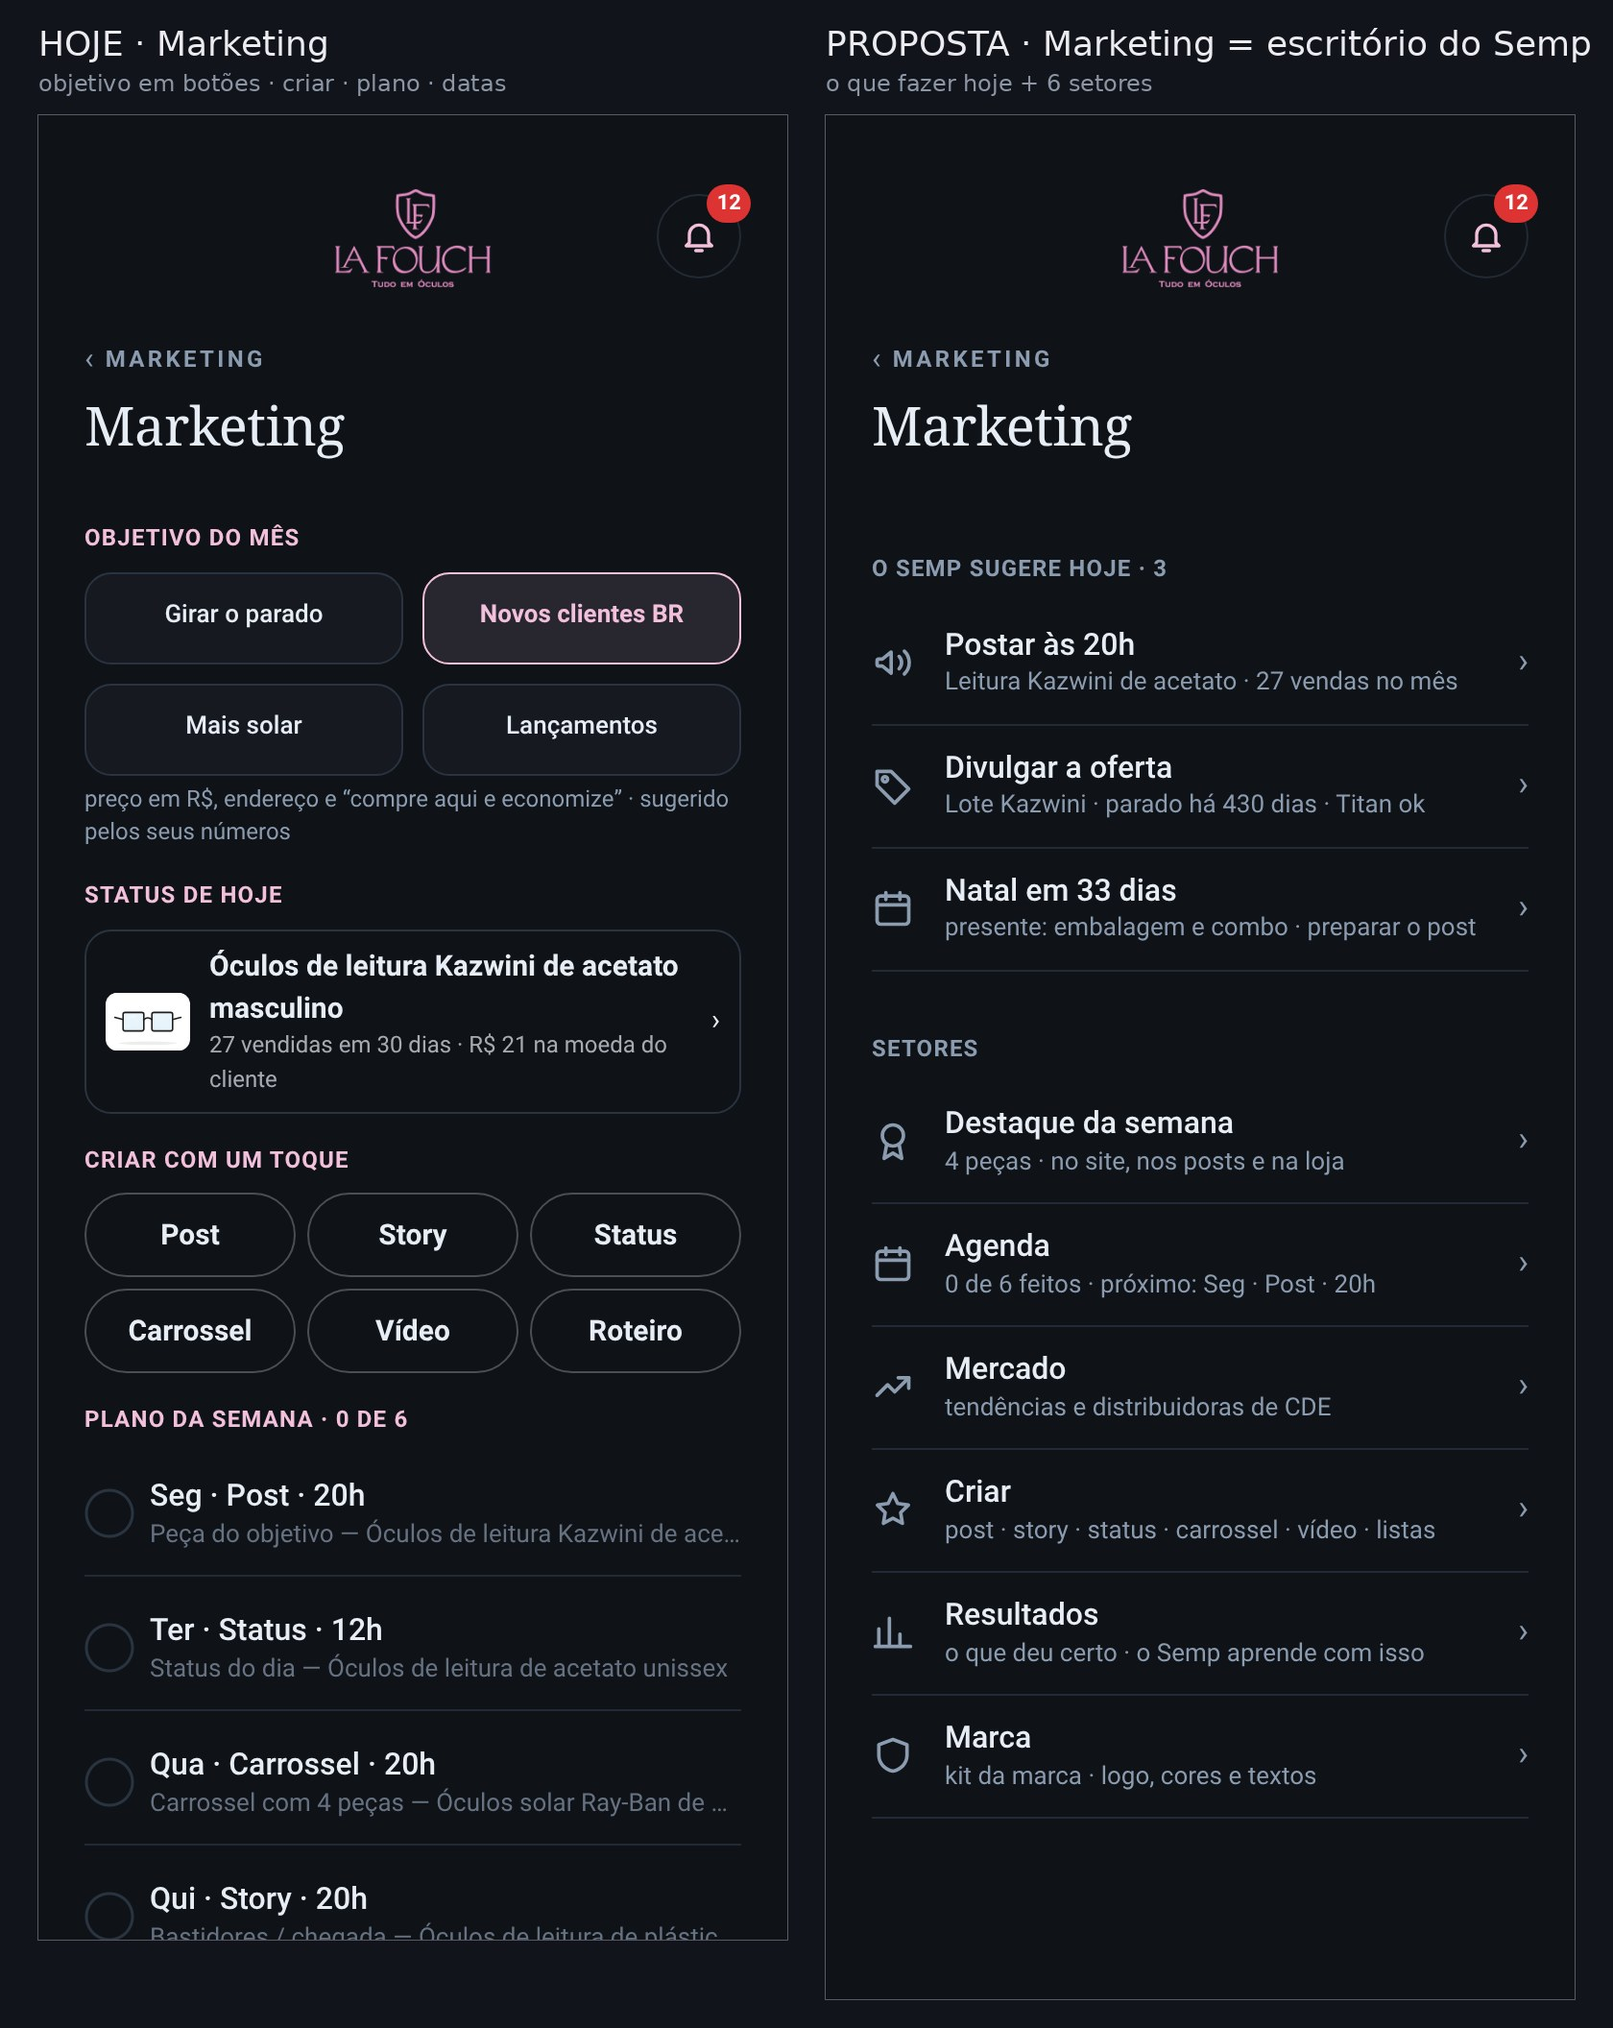
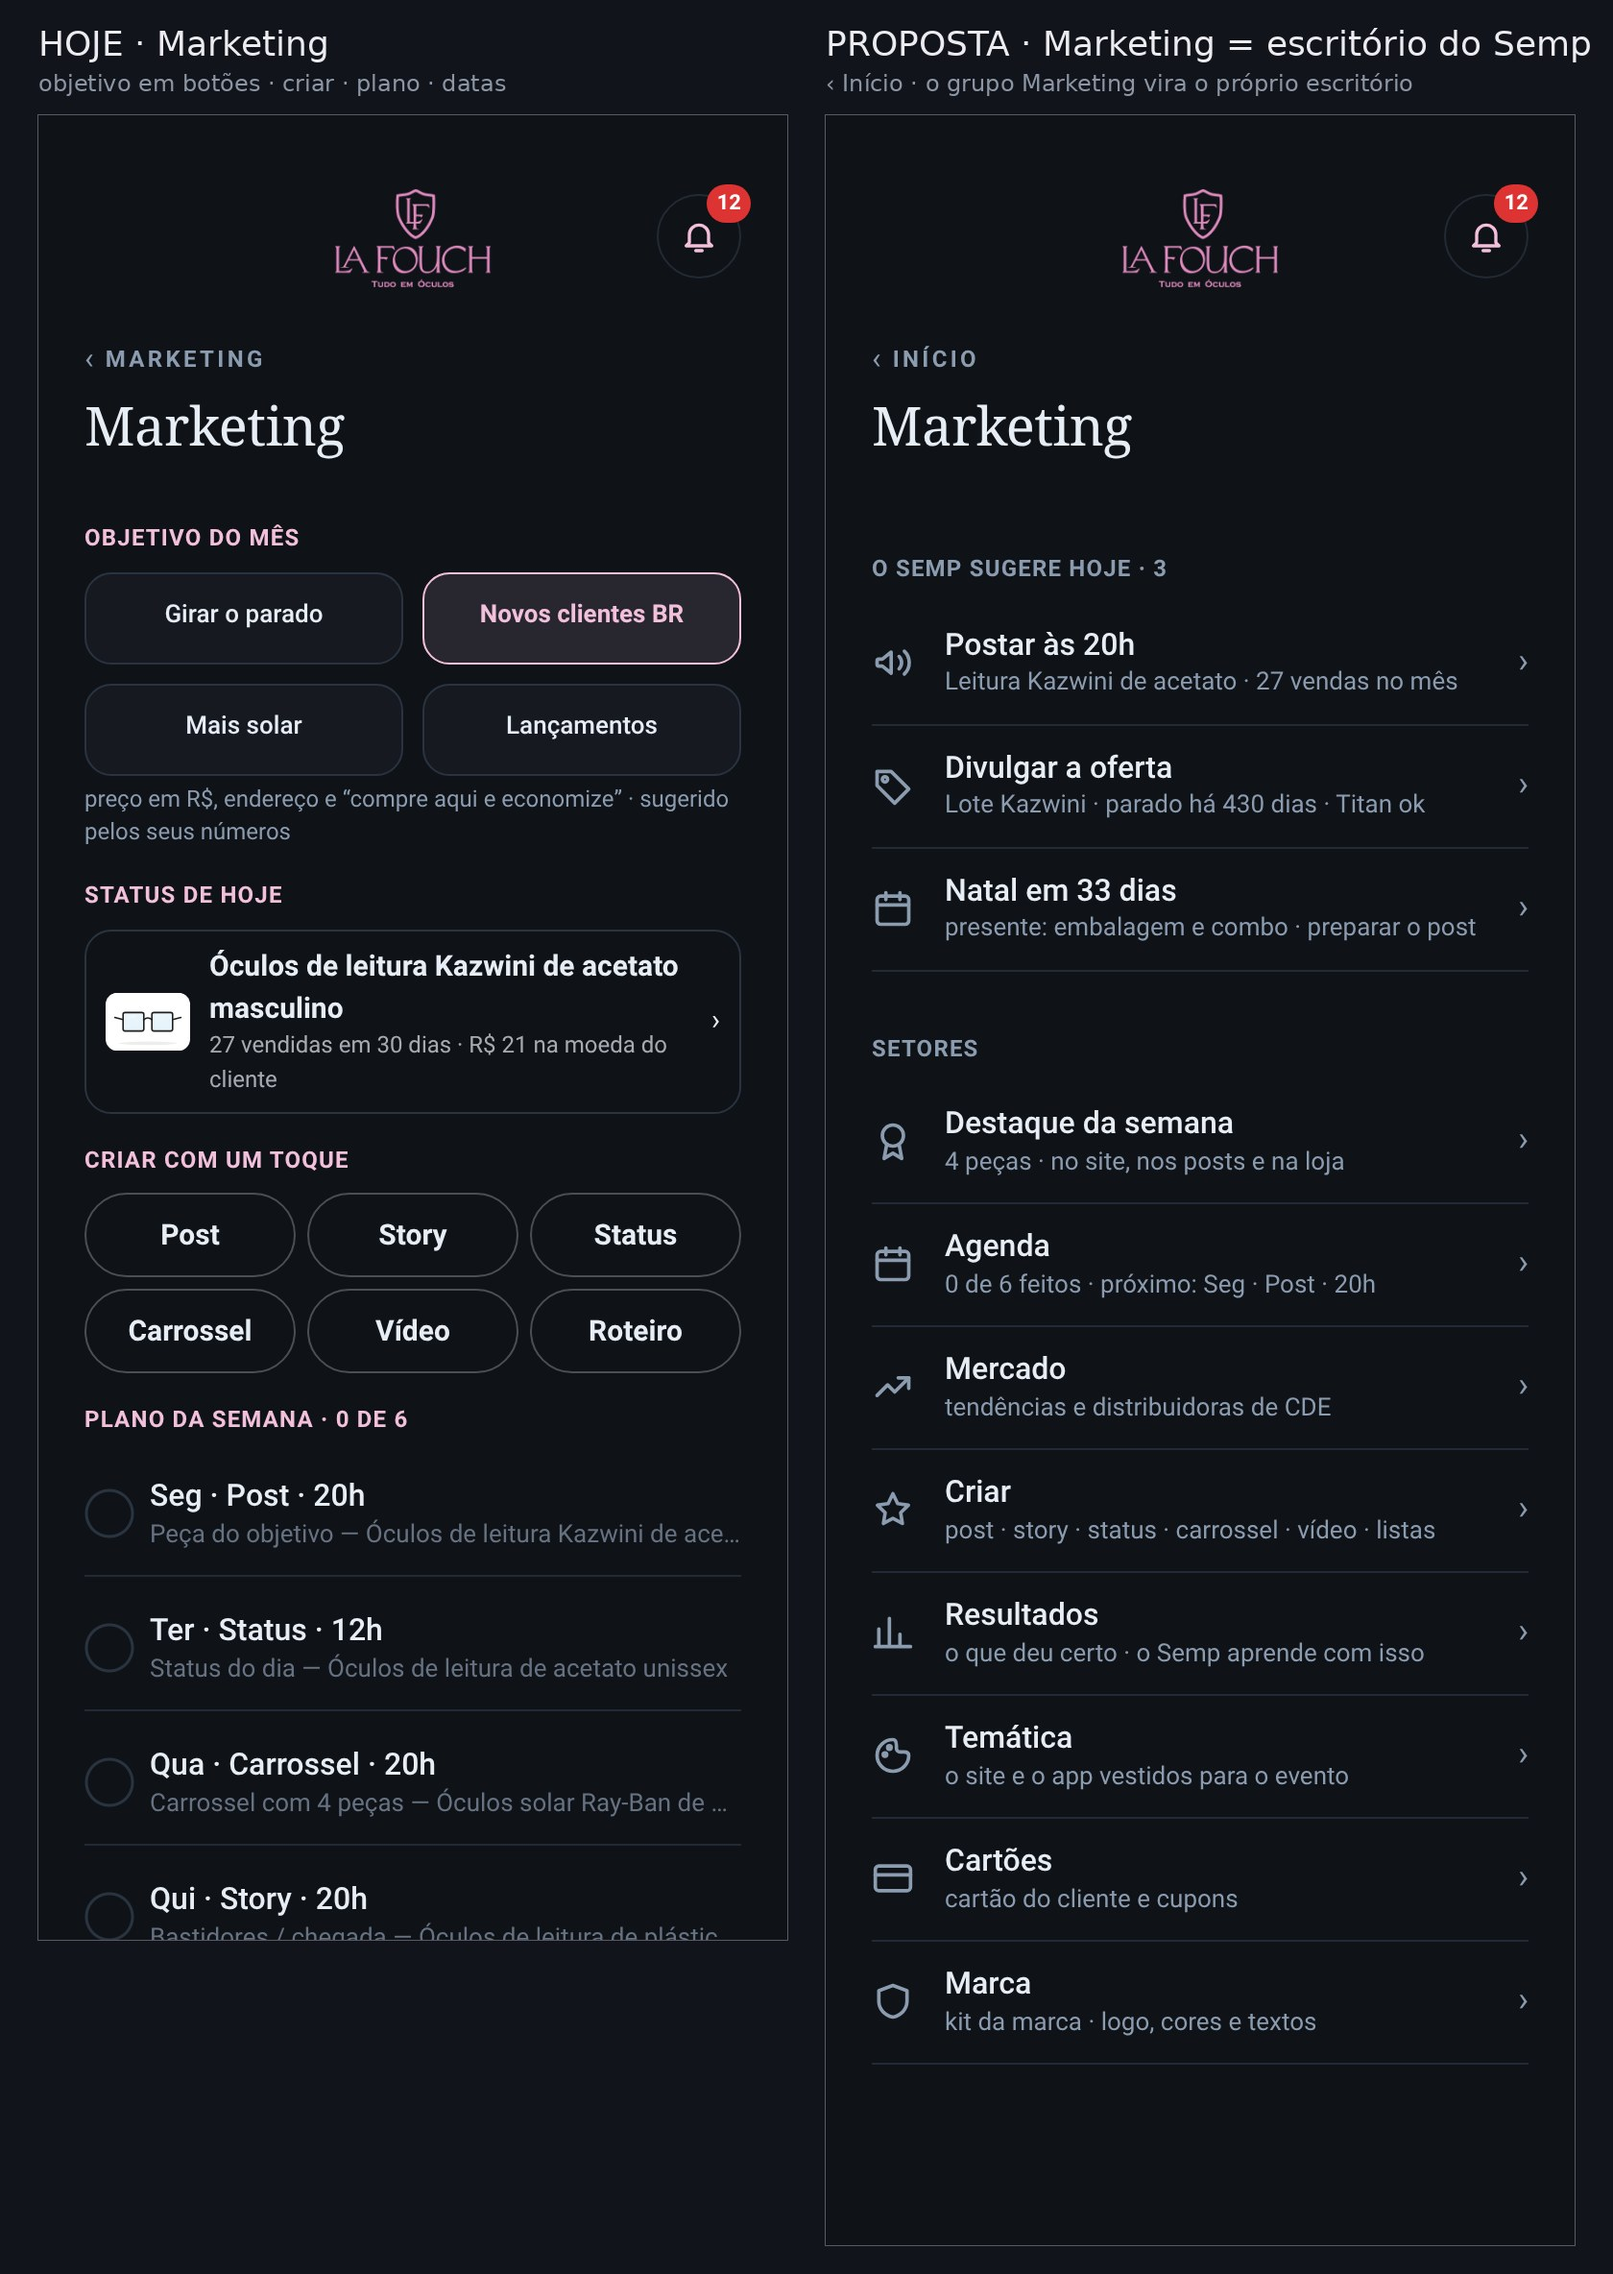
S435 esboço 70 v3: Início › Marketing direto; Temática e Cartões viram setores
Claude-Session: https://claude.ai/code/session_01Vj5GPRt4UBskC3w8v52h7G

diff --git a/work/s435/semp/esboco_70.py b/work/s435/semp/esboco_70.py
@@ -6,6 +6,9 @@
 # Dados REAIS do app de teste: foco 'Novos clientes BR' (o objetivo marcado hoje), Kazwini de acetato masculino 27 vendidas em 30 dias
 # (Status de hoje), plano 0 de 6 (Seg · Post · 20h), Lote Kazwini parado (o mesmo do 54), Natal em 33 dias (Datas que vêm aí).
 # v2: o foco vai para o subtítulo (o rótulo quebrava em 2 linhas, L4) e o rótulo fica igual ao do 54: 'O Semp sugere hoje · 3'.
+# v3 (dono 14:48 'a navegação tem marketing → marketing'): o GRUPO Marketing do Início (Marketing · Temática · Cartões · Analisador) deixa
+# de existir: Início › Marketing abre o escritório direto ('‹ Início', como o 54); Temática e Cartões viram setores; Analisador já foi para
+# Resultados (58c). Mesmo jeito do 52a (grupo Giro e preços saiu, Preços virou linha do Início).
 # 'Comprar a tendência' do 1c NÃO entra: o Mercado do Semp ainda não existe, não há tendência real (proibido produto de exemplo).
 import sys;sys.path.insert(0,'/home/claude/lafouch/work/s349');sys.path.insert(0,'/home/claude/lafouch/work/s430/comparador');import ap,compara
 from playwright.sync_api import sync_playwright
@@ -25,12 +28,15 @@ IC=dict(
  tend='<path d="M3 17l6-6 4 4 8-8"/><path d="M15 7h6v6"/>',
  cria='<path d="M12 3l2.7 5.6 6.1.9-4.4 4.3 1 6.1L12 17l-5.4 2.9 1-6.1L3.2 9.5l6.1-.9z"/>',
  res='<path d="M4 20V10M10 20V4M16 20v-7M22 20H2"/>',
+ tem='<path d="M12 3a9 9 0 1 0 9 9c0-1.5-1.2-2-2.5-2H16a2 2 0 0 1-2-2V6.5C14 4.6 13.4 3 12 3z"/><circle cx="7.5" cy="11.5" r="1"/><circle cx="10" cy="7.5" r="1"/>',
+ cart='<rect x="2" y="5" width="20" height="14" rx="2"/><path d="M2 10h20"/>',
  marca='<path d="M12 3l8 3v6c0 4.5-3.4 8-8 9-4.6-1-8-4.5-8-9V6z"/>')
 JS=r"""(I)=>{const v=document.getElementById('v-mkt');
 const L='display:flex;align-items:center;gap:16px;min-height:64px;border-bottom:1px solid var(--line2)';
 const SV=p=>'<svg width="22" height="22" viewBox="0 0 24 24" fill="none" stroke="var(--mute)" stroke-width="2" stroke-linecap="round" stroke-linejoin="round" style="flex:none">'+p+'</svg>';
 const linha=(ic,t,s)=>'<div style="'+L+'">'+SV(ic)+'<div style="min-width:0;flex:1"><b style="font-size:16px;font-weight:500;display:block">'+t+'</b><small style="font-size:13px;color:var(--mute);display:block;white-space:nowrap;overflow:hidden;text-overflow:ellipsis">'+s+'</small></div><span style="color:var(--mute);font-size:18px">›</span></div>';
 const tit=t=>'<div style="font-size:12px;font-weight:700;letter-spacing:.05em;text-transform:uppercase;color:var(--mute);margin:32px 0 8px">'+t+'</div>';
+const nv=v.querySelector('.nvVs');if(nv)nv.lastChild.textContent='Início';
 const topo=v.querySelector('.top');
 [...v.children].forEach(e=>{if(e!==topo&&!e.contains(topo)&&!topo.contains(e)&&!e.classList.contains('nvVs'))e.remove()});
 
@@ -45,6 +51,8 @@ linha(I.cal,'Agenda','0 de 6 feitos · próximo: Seg · Post · 20h')+
 linha(I.tend,'Mercado','tendências e distribuidoras de CDE')+
 linha(I.cria,'Criar','post · story · status · carrossel · vídeo · listas')+
 linha(I.res,'Resultados','o que deu certo · o Semp aprende com isso')+
+linha(I.tem,'Temática','o site e o app vestidos para o evento')+
+linha(I.cart,'Cartões','cartão do cliente e cupons')+
 linha(I.marca,'Marca','kit da marca · logo, cores e textos');
 const wrap=topo.parentNode===v?v:topo.parentNode;wrap.appendChild(box);}"""
 def mkt(pw,prop,esc=True):
@@ -56,5 +64,5 @@ if __name__=='__main__':
  with sync_playwright() as pw:
   for esc in (True,False):
     n='escuro' if esc else 'claro'
-    quadro('esboco_70_marketing_semp_%s.jpg'%n,esc,[('HOJE · Marketing','objetivo em botões · criar · plano · datas',mkt(pw,0,esc)),('PROPOSTA · Marketing = escritório do Semp','o que fazer hoje + 6 setores',mkt(pw,1,esc))])
+    quadro('esboco_70_marketing_semp_%s.jpg'%n,esc,[('HOJE · Marketing','objetivo em botões · criar · plano · datas',mkt(pw,0,esc)),('PROPOSTA · Marketing = escritório do Semp','‹ Início · o grupo Marketing vira o próprio escritório',mkt(pw,1,esc))])
  for n,f in REL: print(n,len(f),f[:4])
